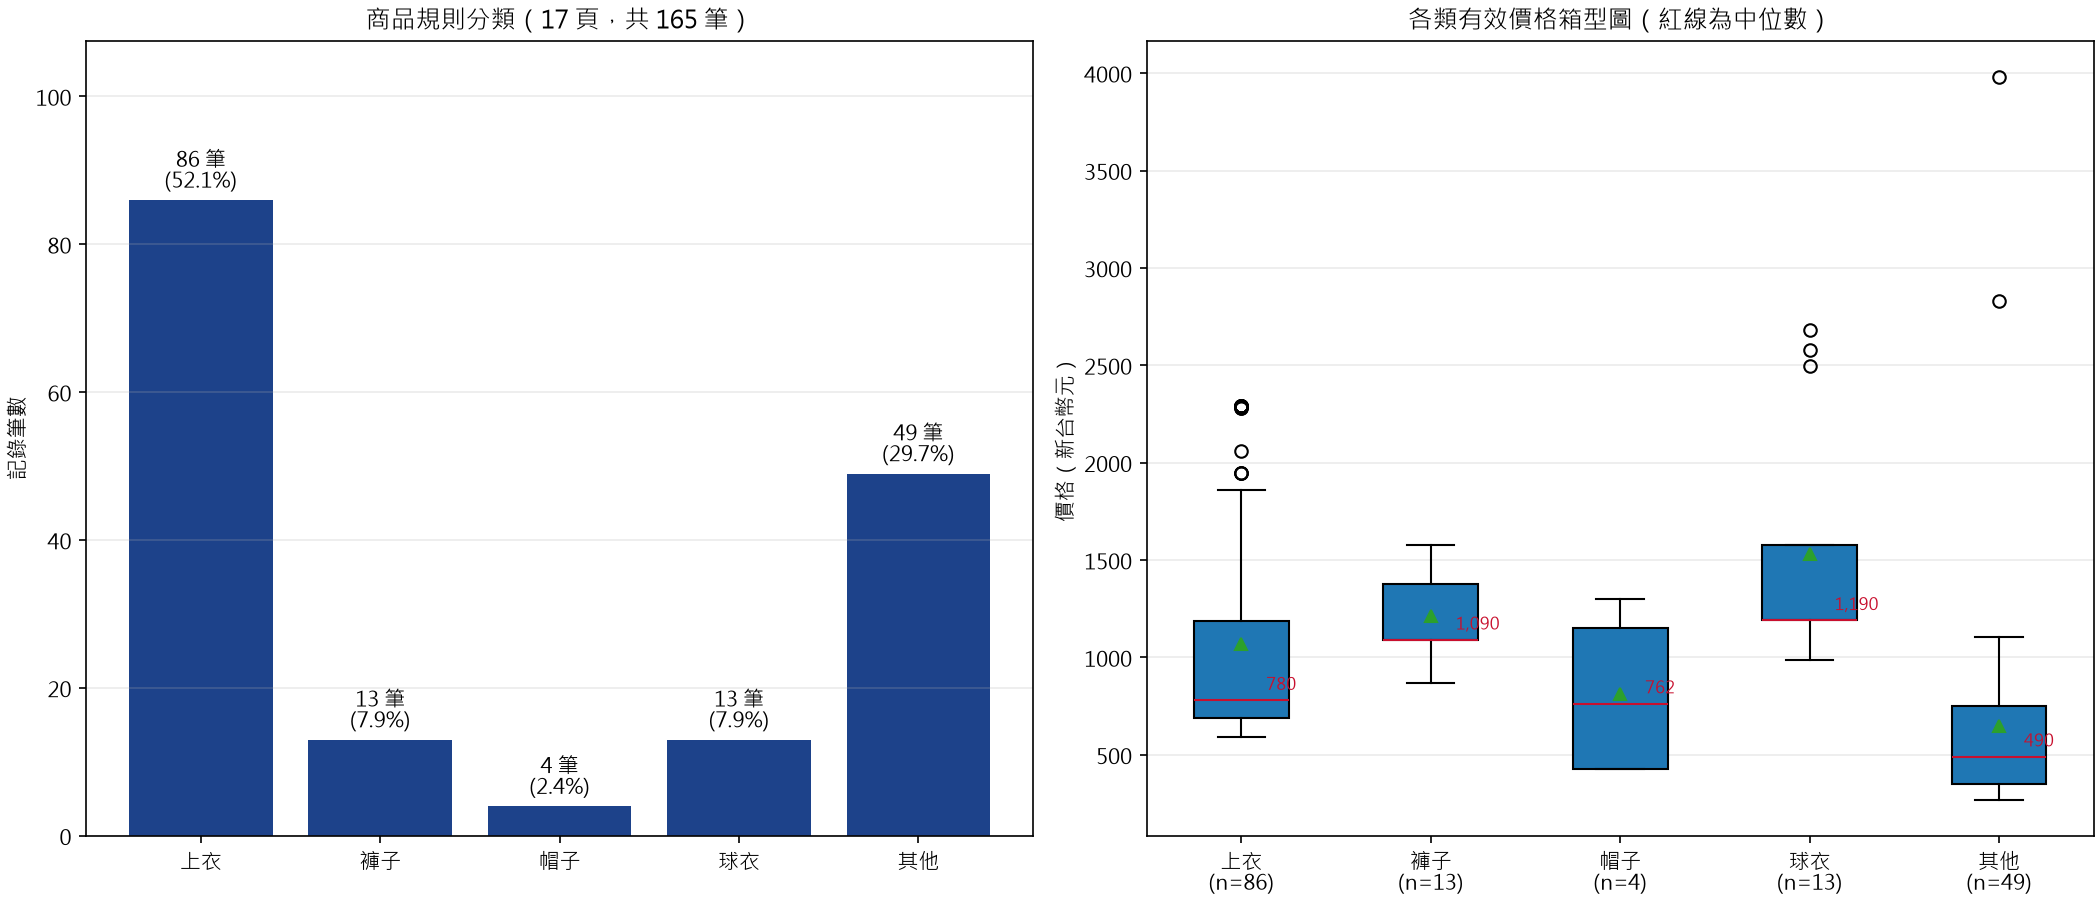
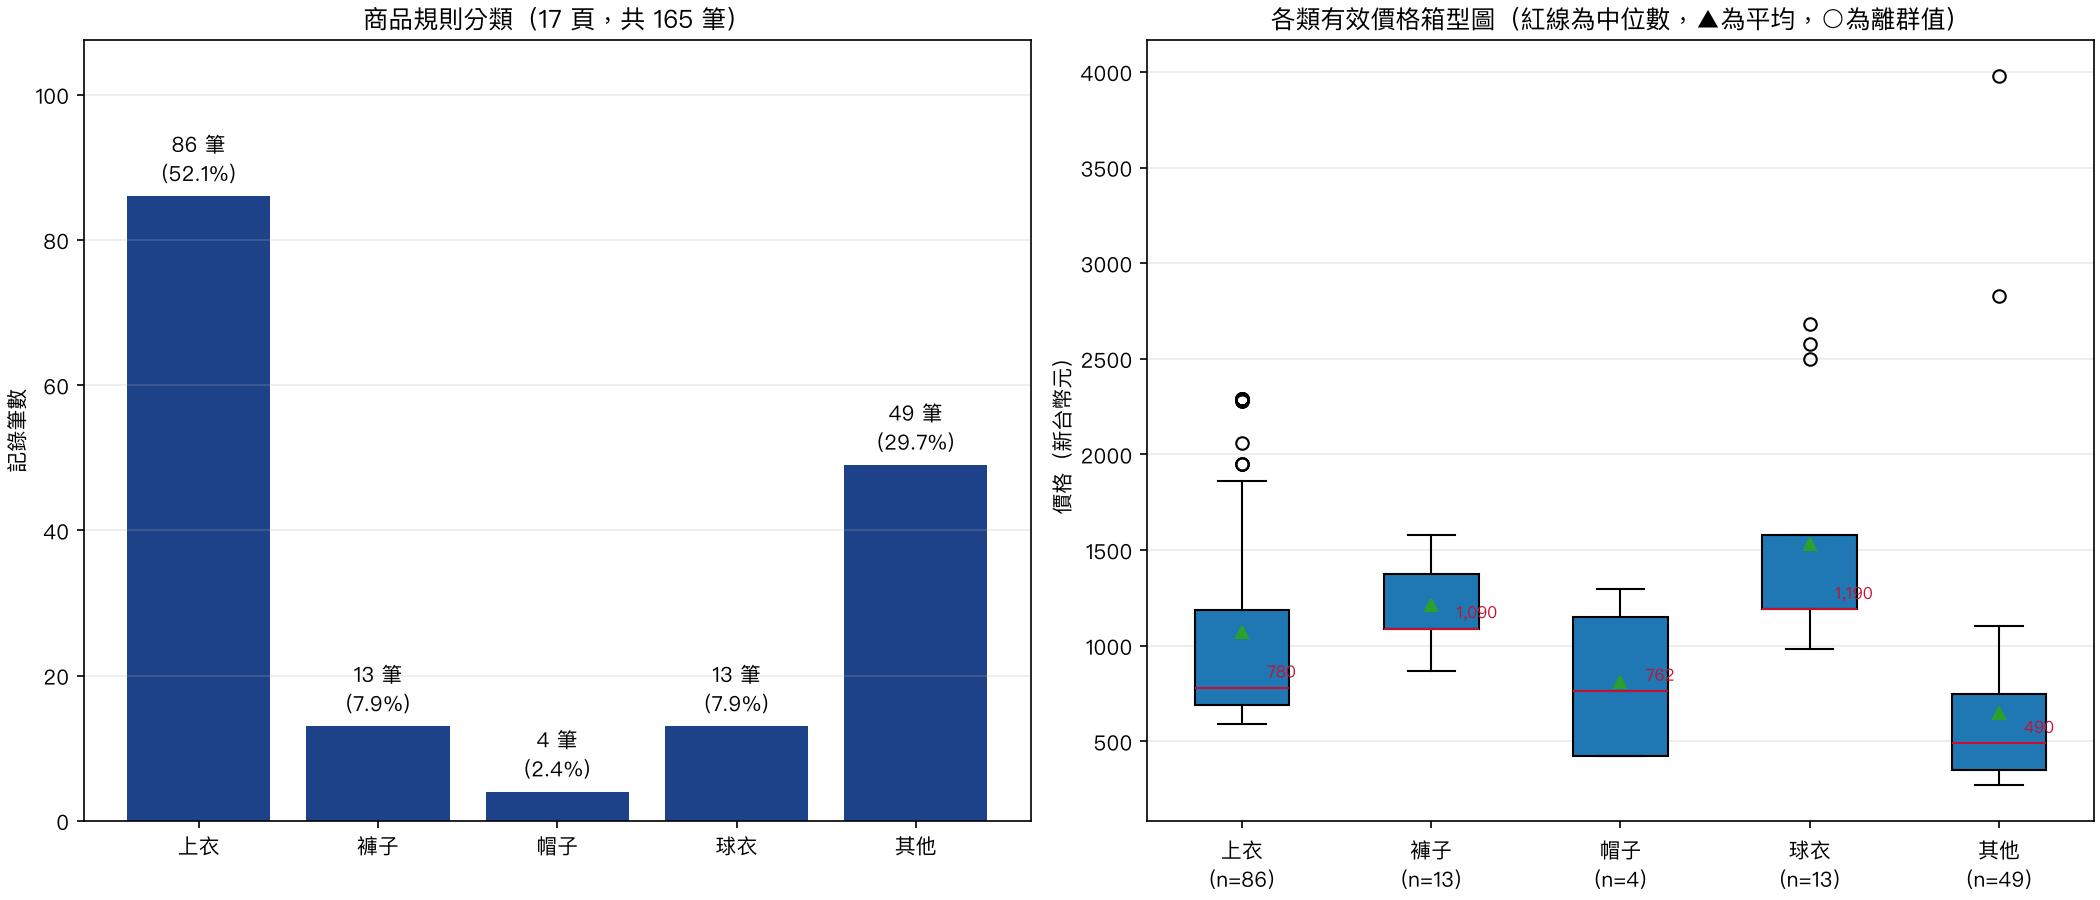
第 11 題箱型圖標題註明 ▲ 平均、○ 離群值；更新第 15、17 題執行結果

diff --git a/第11題_NBA商品資料/main.py b/第11題_NBA商品資料/main.py
@@ -157,7 +157,7 @@ def analyze_and_draw():
             ax_box.annotate(f"{prices.median():,.0f}", (i, prices.median()), xytext=(12, 5), textcoords="offset points", fontsize=8, color="#C8102E")
     else:
         ax_box.text(.5, .5, "沒有有效價格", transform=ax_box.transAxes, ha="center")
-    ax_box.set(title="各類有效價格箱型圖（紅線為中位數）", ylabel="價格（新台幣元）")
+    ax_box.set(title="各類有效價格箱型圖（紅線為中位數，▲為平均，○為離群值）", ylabel="價格（新台幣元）")
     for ax in (ax_bar, ax_box):
         ax.grid(axis="y", alpha=.25)
     fig.savefig(CHART_OUTPUT, dpi=150)
